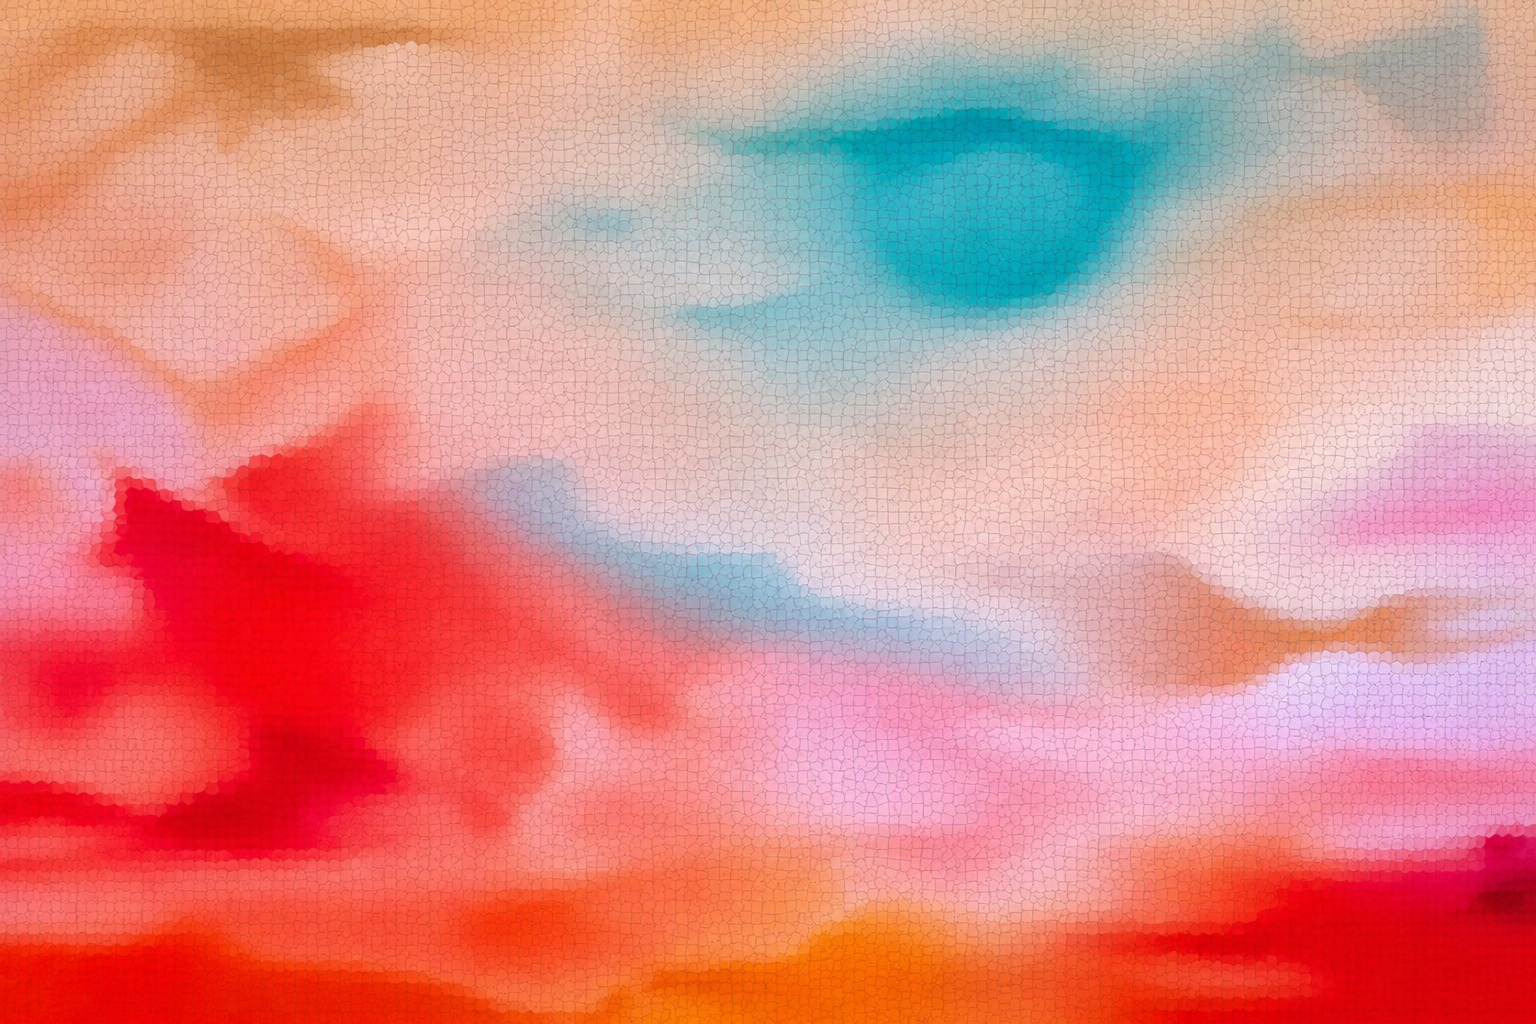
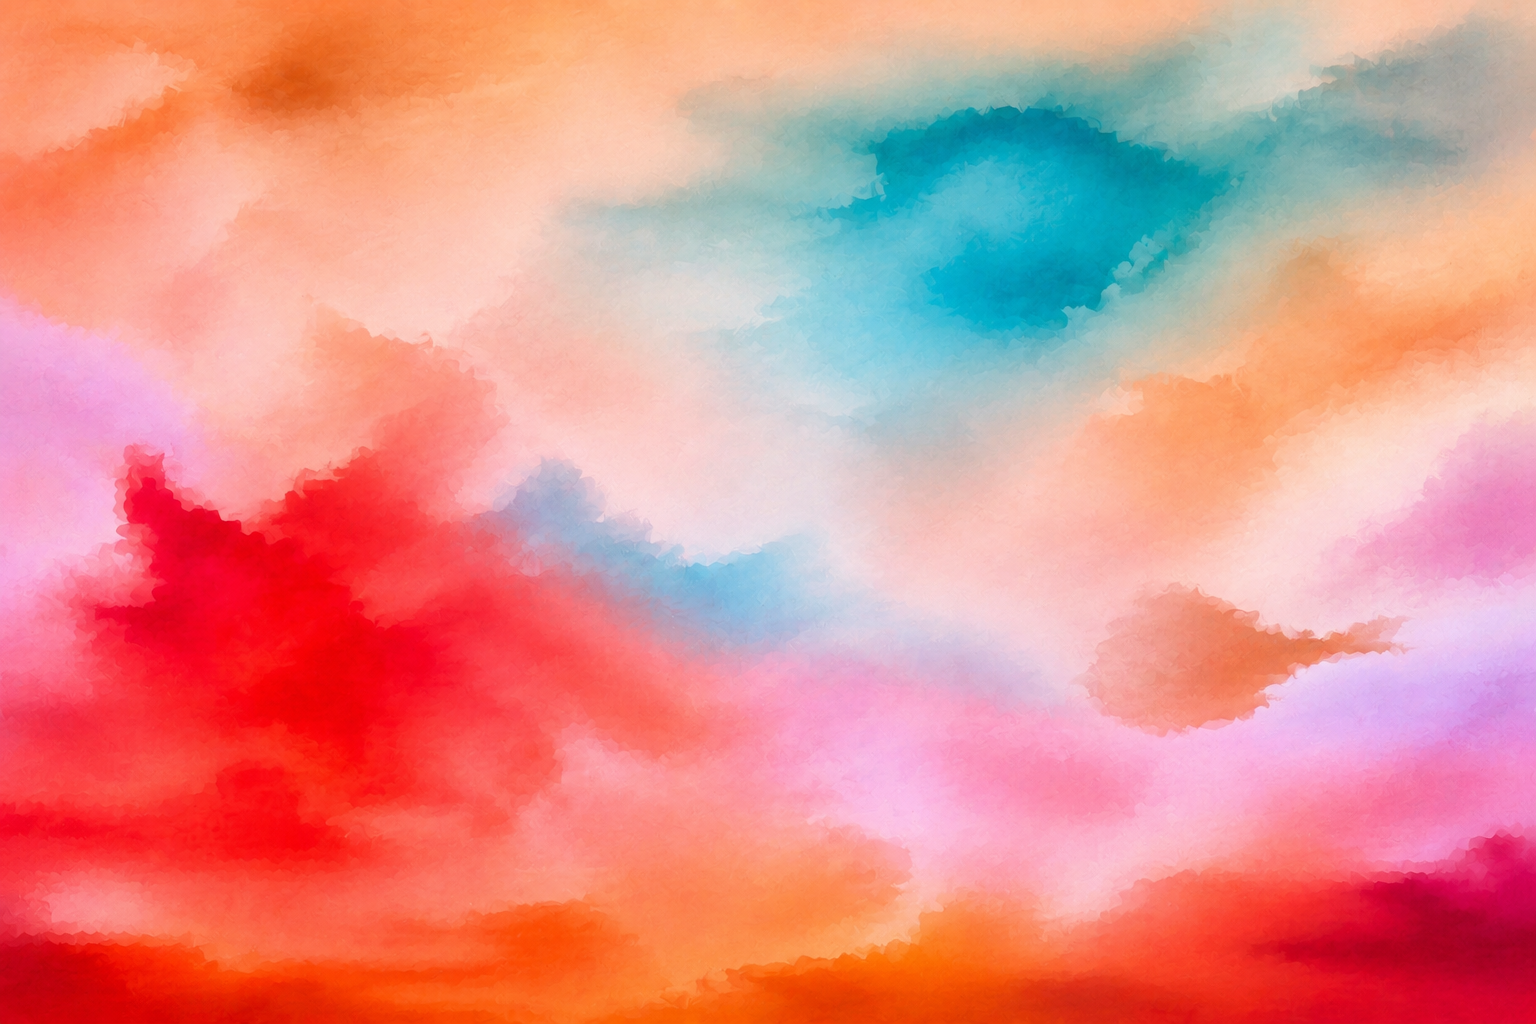
home screen heading subheading add

diff --git a/main.py b/main.py
@@ -6,9 +6,9 @@
 # cloud sync to upload the watermarked image and watermark style and position to the cloud storage
 
 
-from tkinter import Tk, PhotoImage, Label
+from tkinter import Tk, PhotoImage, Label, Canvas
 
-
+HEADING_TEXT_COLOR = "black"
 WINDOW_WIDTH = 1080
 WINDOW_HEIGHT = 700
 
@@ -20,12 +20,26 @@ screen_height = app_window.winfo_screenheight()
 center_x = int((screen_width / 2) - (WINDOW_WIDTH / 2))
 center_y = int((screen_height / 2) - (WINDOW_HEIGHT / 2))
 
-app_window.geometry(f"{WINDOW_WIDTH}x{WINDOW_HEIGHT}+{center_x}+{center_y }")
+app_window.geometry(f"{WINDOW_WIDTH}x{WINDOW_HEIGHT}+{center_x}+{center_y}")
 app_window.resizable(False, False)
 app_window.title("Image Watermarking Desktop App")
 
-img = PhotoImage(file = "img/watermark_app_home_menu_bg_img.png")
-image_label = Label(app_window, image = img)
+img = PhotoImage(file="img/watermark_app_home_menu_bg_img.png")
+image_label = Label(app_window, image=img)
 image_label.pack()
-app_window.mainloop()
 
+# home screen text canvas
+text_canvas = Canvas(width=490, height=80)
+text_canvas.place(x=300, y=200)
+
+# heading text
+heading_text = text_canvas.create_text(250, 25, text=f"Make watermark quickly", font=("Arial", 30, "bold"),
+                                       anchor="center")
+
+# subheading text
+sub_heading_text = text_canvas.create_text(250, 65, text=f"add watermark to single & several images in a breeze.",
+                                           font=("Arial", 13, "bold"))
+
+
+
+app_window.mainloop()
